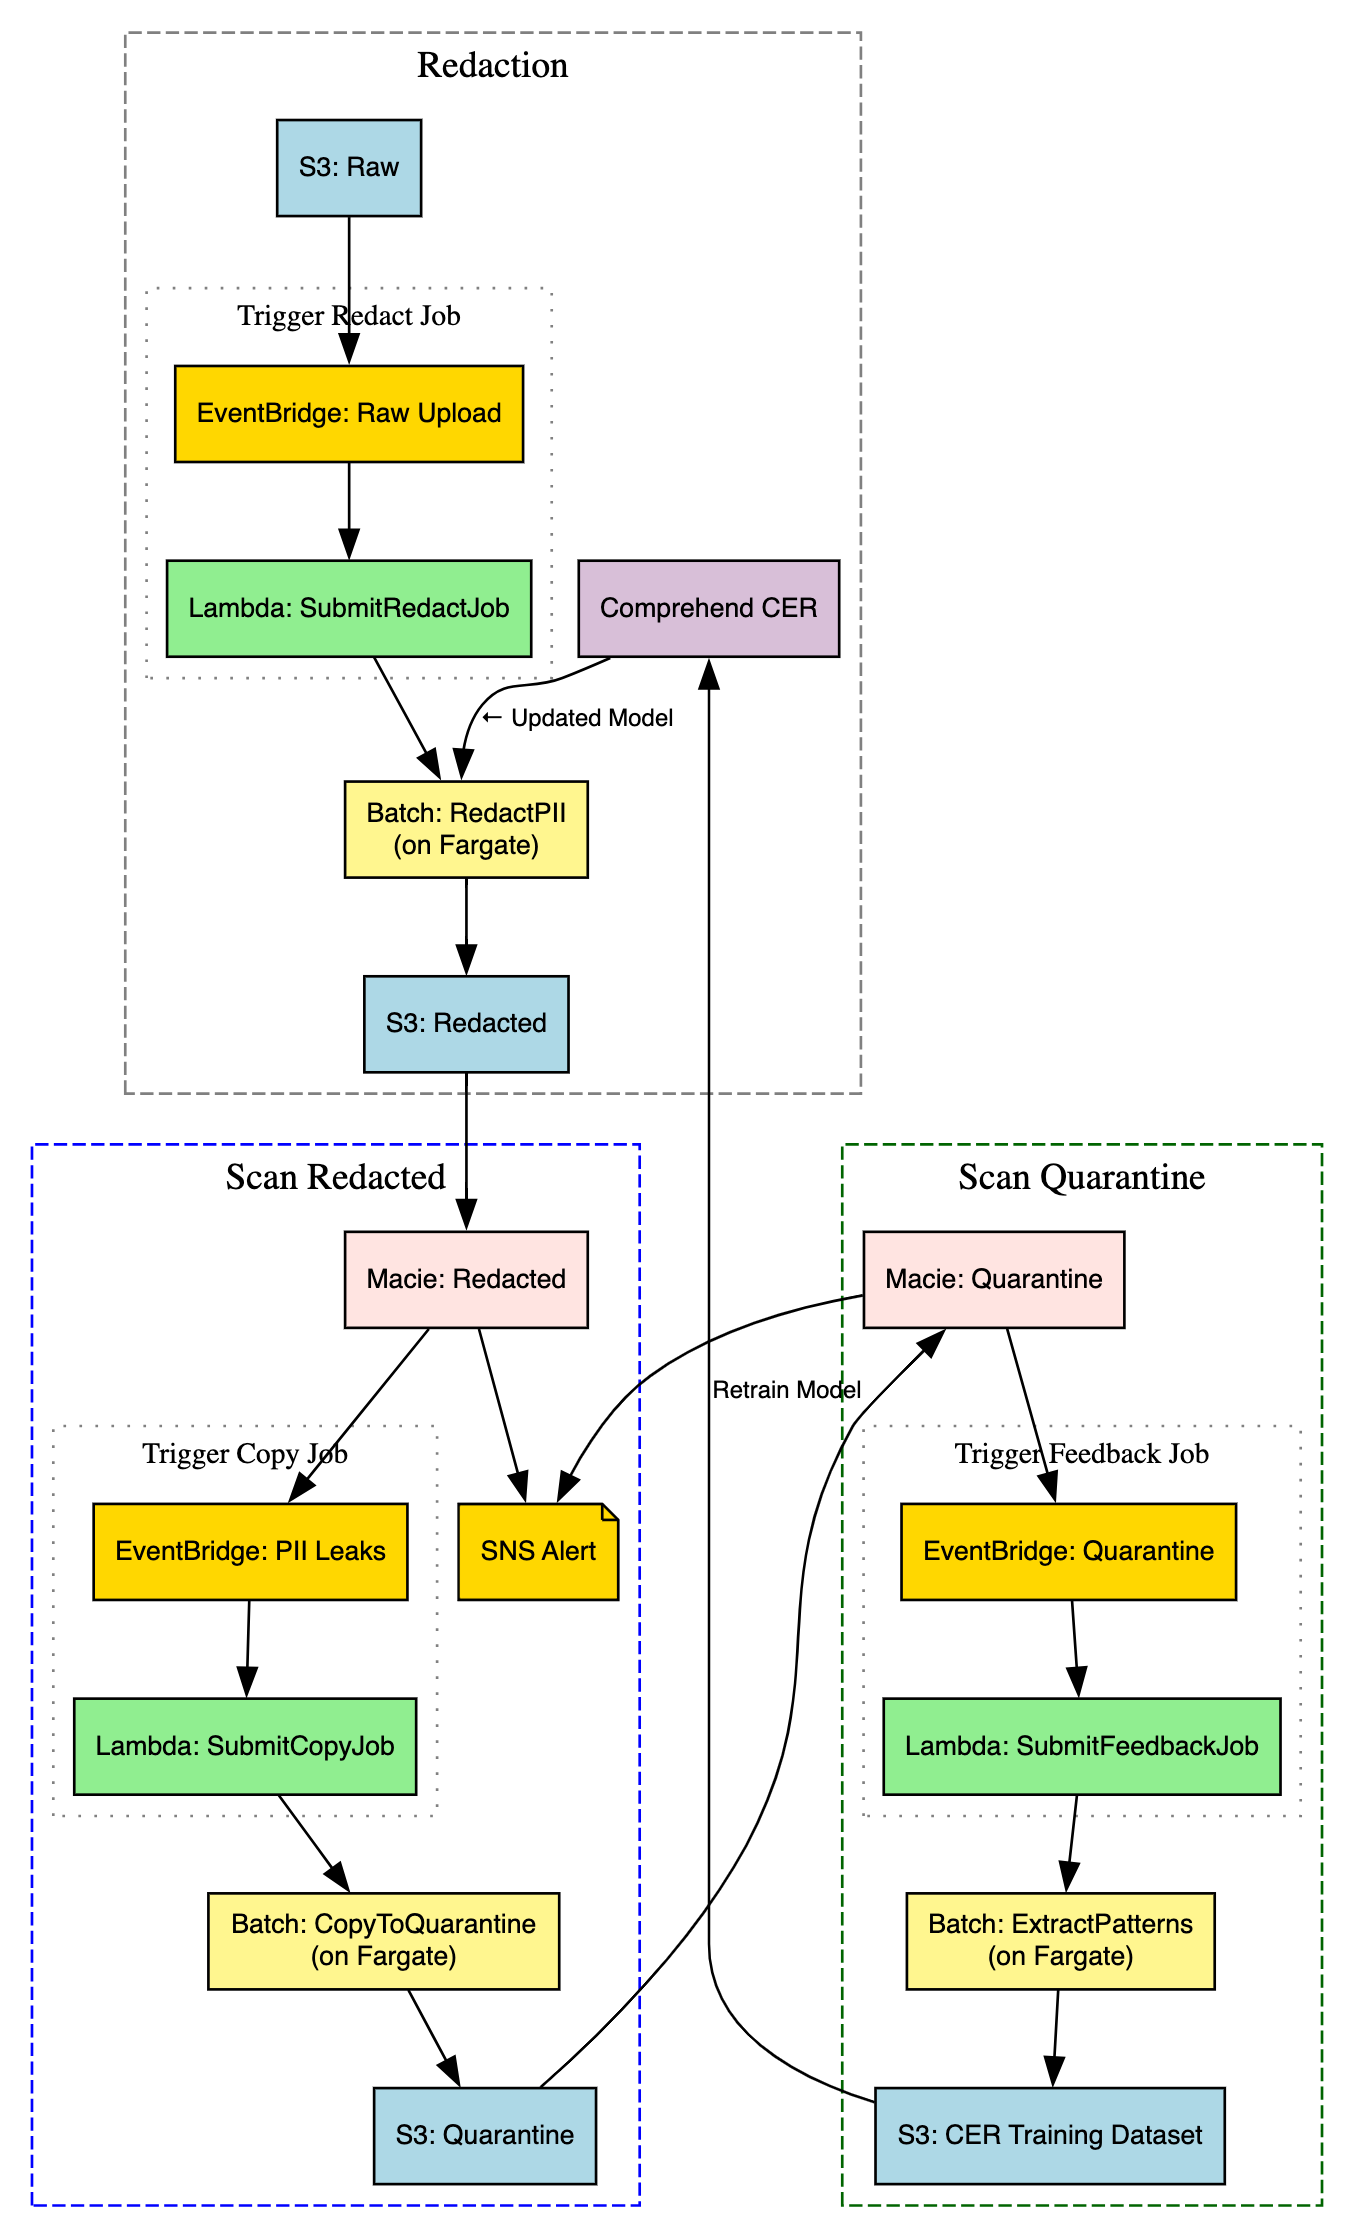
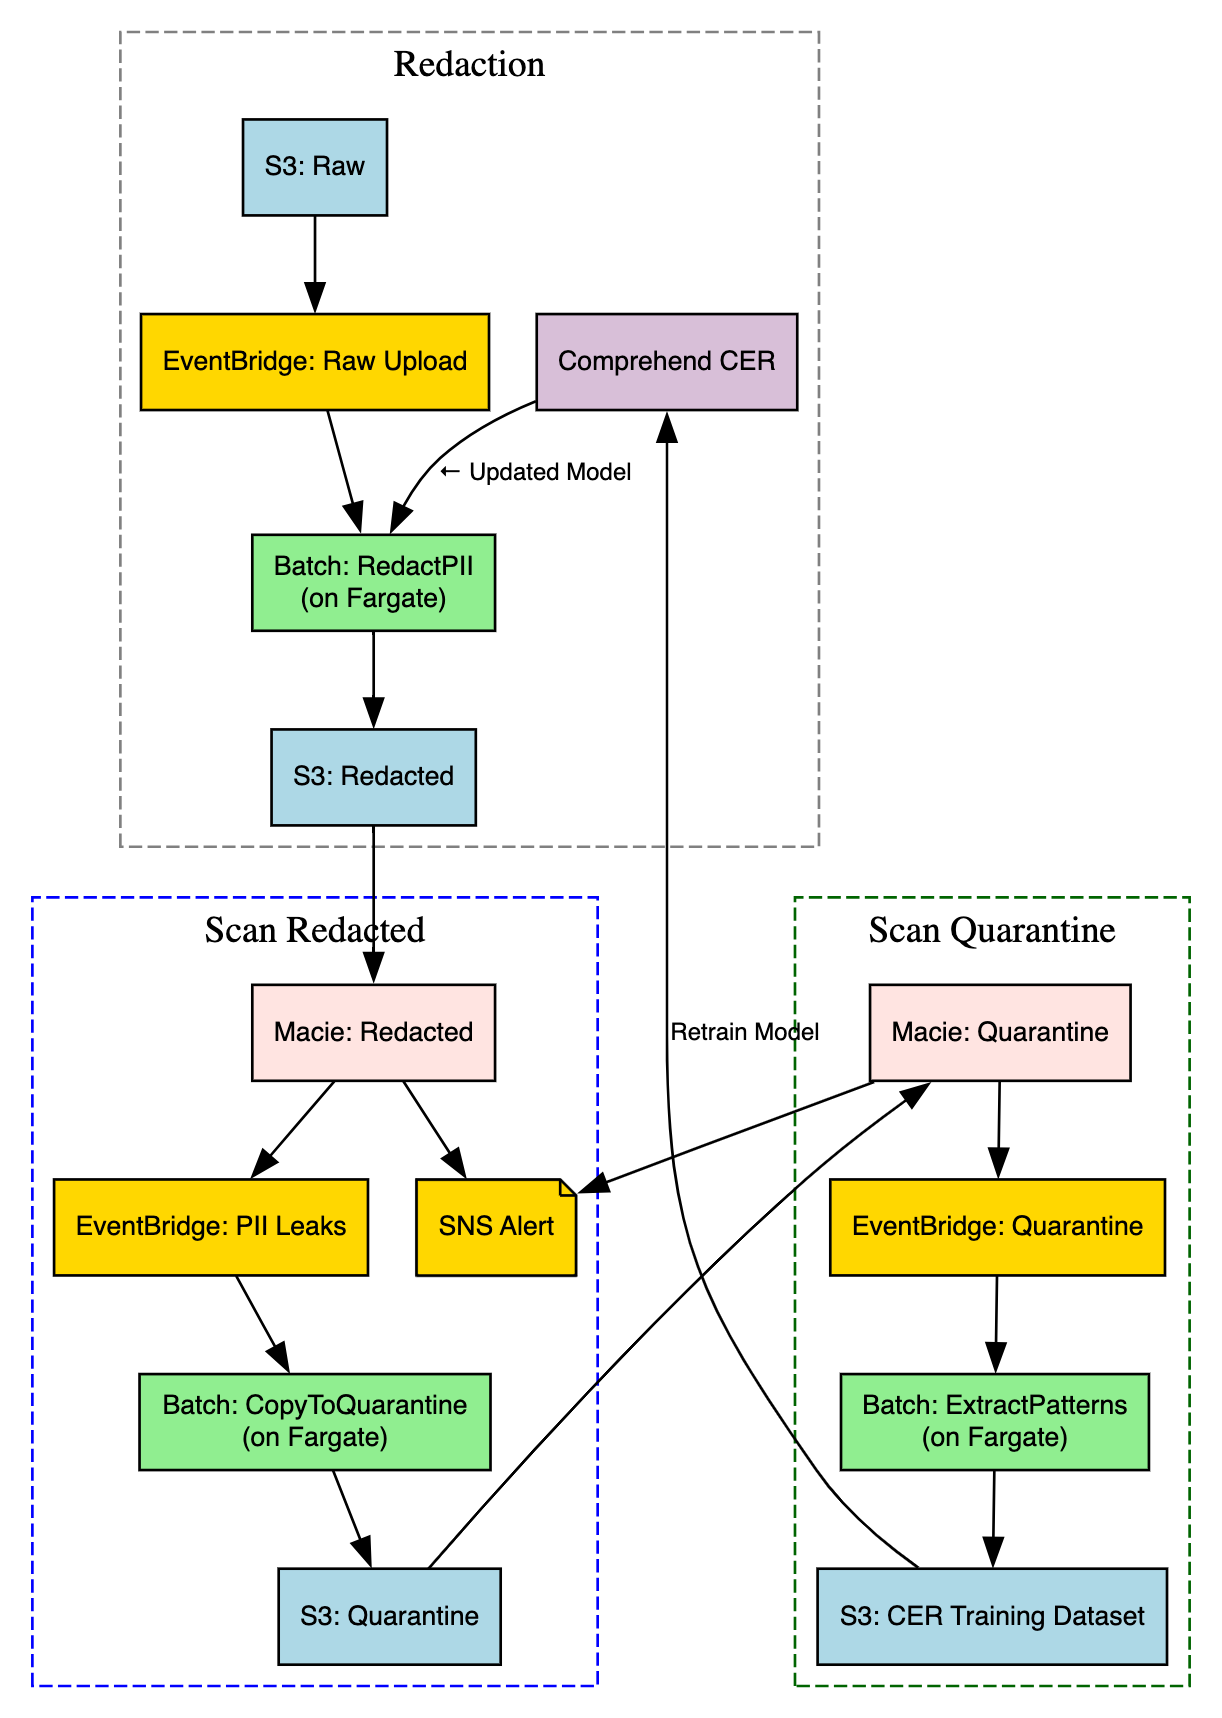
drop lambdas

diff --git a/README.md b/README.md
@@ -21,7 +21,7 @@ The architecture is designed to process high-volume voice metadata files, redact
 
 ### 1. 📨 Raw File Ingestion
 
-Raw JSON files containing up to 15,000 payloads each are uploaded daily to a structured S3 bucket. This triggers an EventBridge `Raw Upload` rule, which invokes a lightweight Lambda `SubmitRedactJob` responsible for submitting a Batch job `RedactPII` for redaction. This separation of concerns ensures that trigger logic remains minimal and scalable, while the heavy lifting is offloaded to the compute-efficient Batch job system
+Raw JSON files containing up to 15,000 payloads each are uploaded daily to a structured S3 bucket. This triggers an EventBridge `Raw Upload` rule, with the Batch job `RedactPII` for redaction as a target. This separation of concerns ensures that trigger logic remains minimal and scalable, while the heavy lifting is offloaded to the compute-efficient Batch job system
 
 ### 2. 🧼 Redaction via Batch Job using Comprehend
 
@@ -33,7 +33,7 @@ To verify redaction quality, files in `S3: Redacted` are asynchronously scanned 
 
 ### 4. 🚨 Quarantine on Redaction Failures
 
-When PII leaks are detected, EventBridge `PII Leaks` invokes a second Lambda `SubmitCopyJob` that submits the `CopyToQuarantine` Batch job. This job copies the original raw files (those linked to Macie-detected leaks) to a separate quarantine bucket. Using Batch here ensures the system can handle copying large numbers of files at once without running into Lambda limitations.
+When PII leaks are detected, EventBridge `PII Leaks` triggers the `CopyToQuarantine` Batch job. This job copies the original raw files (those linked to Macie-detected leaks) to a separate quarantine bucket. Using Batch here ensures the system can handle copying large numbers of files at once without running into Lambda limitations.
 
 ### 5. 🧪 Scan Quarantined Files with Macie
 
@@ -41,7 +41,7 @@ To extract patterns of missed PII, **Macie** scans the raw files in `S3: Quarant
 
 ### 6. 🔁 Feedback Pattern Extraction
 
-The EventBridge `Quarantine` rule triggers a final Lambda `SubmitFeedbackJob` to submit a Batch job for pattern extraction. The `ExtractPatterns` Batch job parses Macie’s findings from quarantined files, aligns them to raw input spans, and emits structured training examples to `S3: CER Training Dataset`. This builds a continuously growing dataset of edge-case PII examples, providing the raw material for a self-improving pipeline.
+The EventBridge `Quarantine` rule has a target Batch job for pattern extraction. The `ExtractPatterns` Batch job parses Macie’s findings from quarantined files, aligns them to raw input spans, and emits structured training examples to `S3: CER Training Dataset`. This builds a continuously growing dataset of edge-case PII examples, providing the raw material for a self-improving pipeline.
 
 ### 7. 🧠 Custom Entity Recognizer (CER) Retraining
 
@@ -85,7 +85,7 @@ This system is event-driven, scalable, and cloud-native.
 | ------------------------- | ----------------------------------------------------- |
 | Macie SNS Alert           | Investigate PII leak patterns                         |
 | Quarantine File Review    | Label sentences for new PII patterns                  |
-| CER Dataset Curation      | Review CSV/JSONL files generated by Lambda            |
+| CER Dataset Curation      | Review CSV/JSONL files generated by Batch job         |
 | CER Training Launch       | Trigger training job (manual or automated)            |
 | Model Deployment Approval | Validate updated model performance before redeploying |
 
